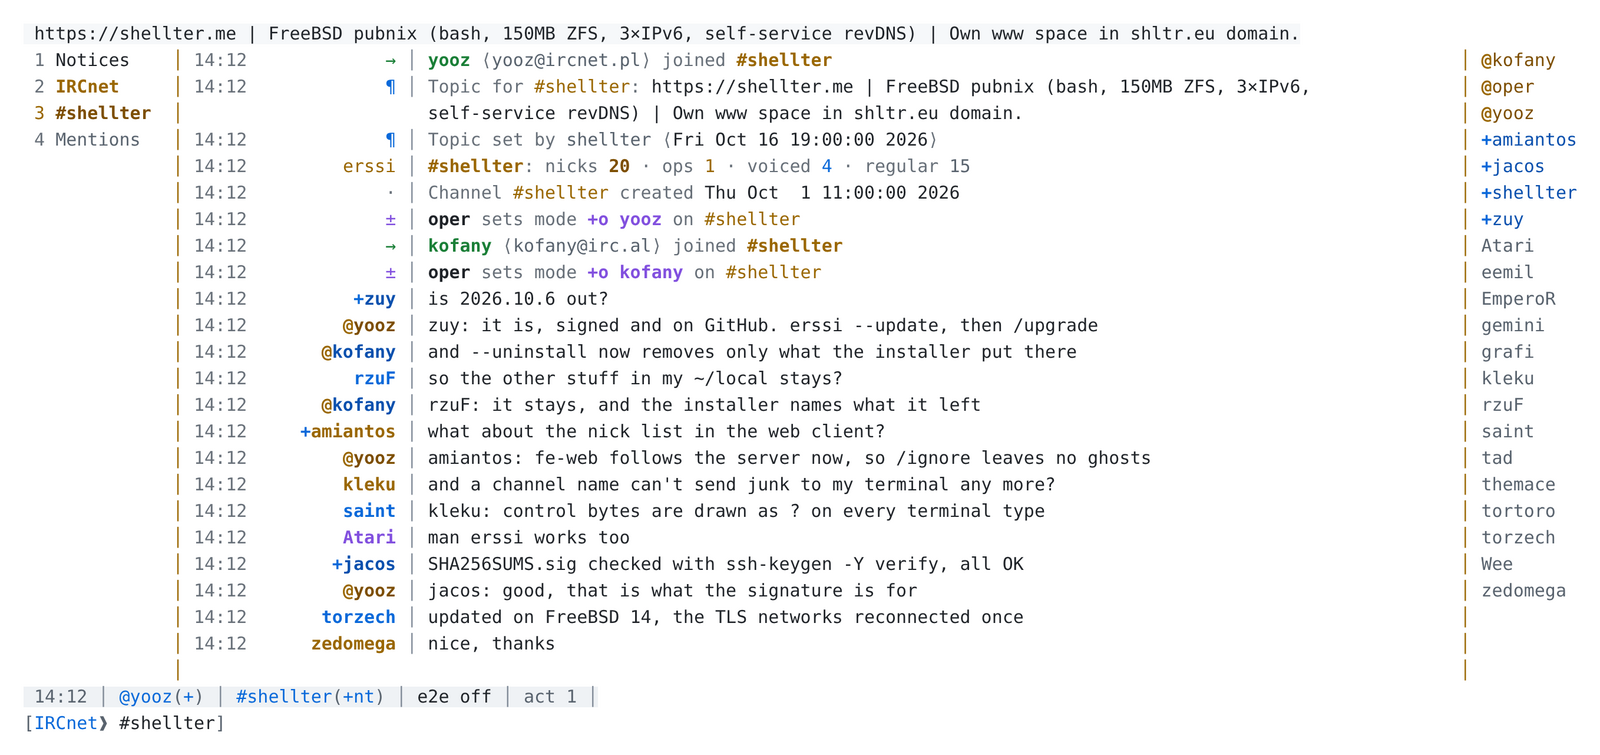
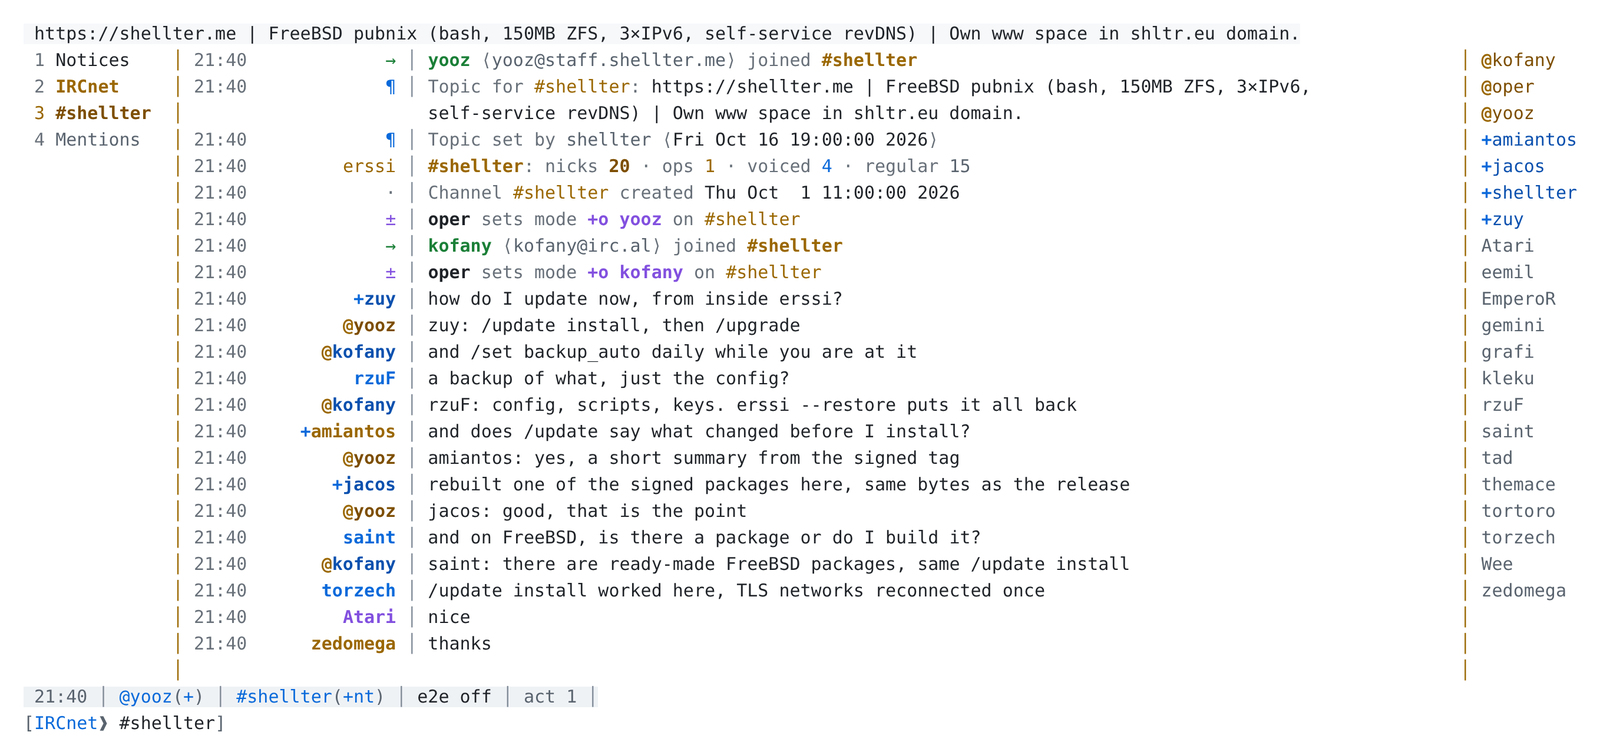
README: screenshots from 2026.10.9, yooz@staff.shellter.me
The same real erssi and conversation as on the site, with the current
host of yooz; alt text names the release.

diff --git a/README.md b/README.md
@@ -20,7 +20,7 @@ also updates, and a security review of the parts that face the network.
 
 <picture>
   <source media="(prefers-color-scheme: light)" srcset="docs/images/erssi-shellter-light.png">
-  <img src="docs/images/erssi-shellter.png" alt="erssi Shellter Edition 2026.10.6 in #shellter on IRCnet, shellter theme: the window list on the left; in the middle yooz (yooz@ircnet.pl) and kofany (kofany@irc.al) join and get op, then people on the channel talk about the release under one separator; the nick list by rank on the right; the statusbar below">
+  <img src="docs/images/erssi-shellter.png" alt="erssi Shellter Edition 2026.10.9 in #shellter on IRCnet, shellter theme: the window list on the left; in the middle yooz (yooz@staff.shellter.me) and kofany (kofany@irc.al) join and get op, then people on the channel talk about the release under one separator; the nick list by rank on the right; the statusbar below">
 </picture>
 
 <sub>A real erssi with the real nicks of #shellter; the lines they say were written for the picture.</sub>
